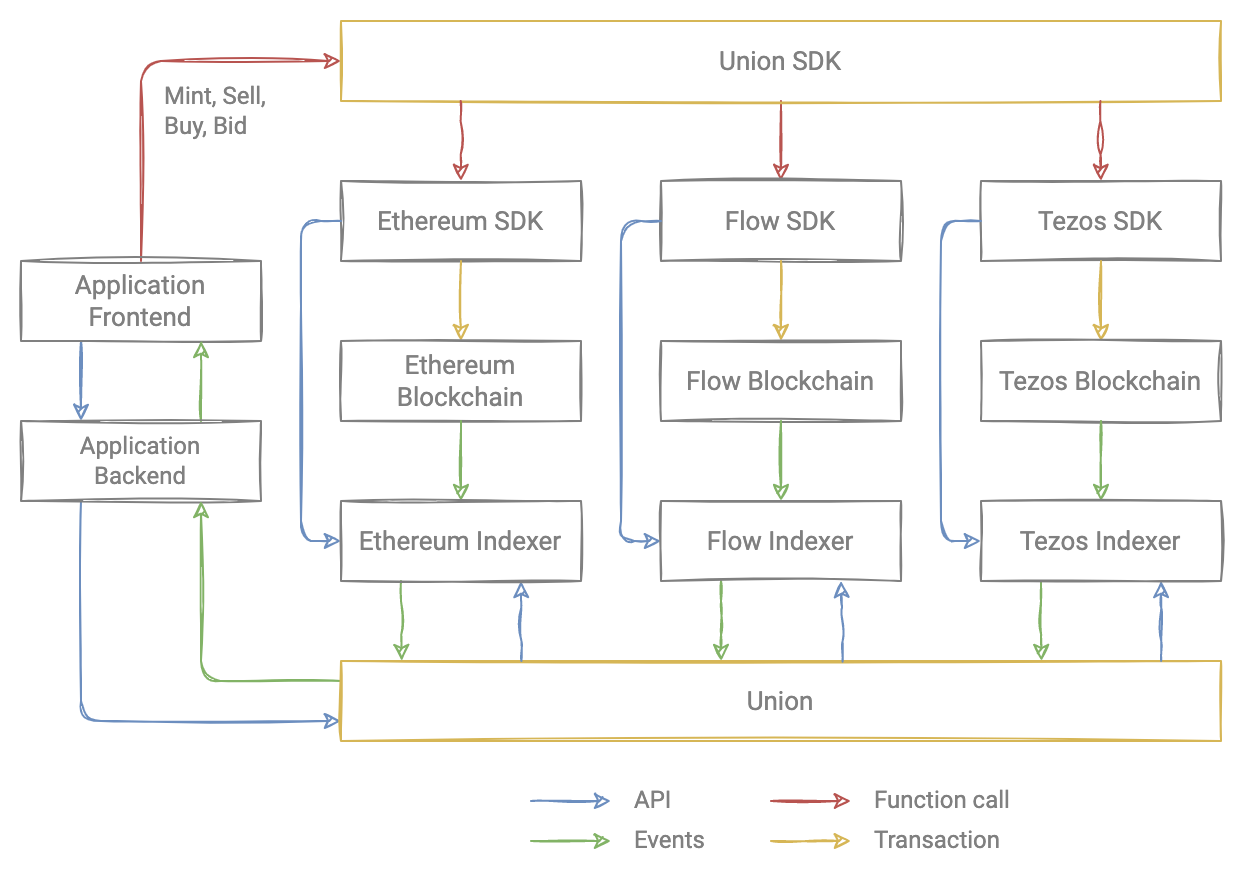
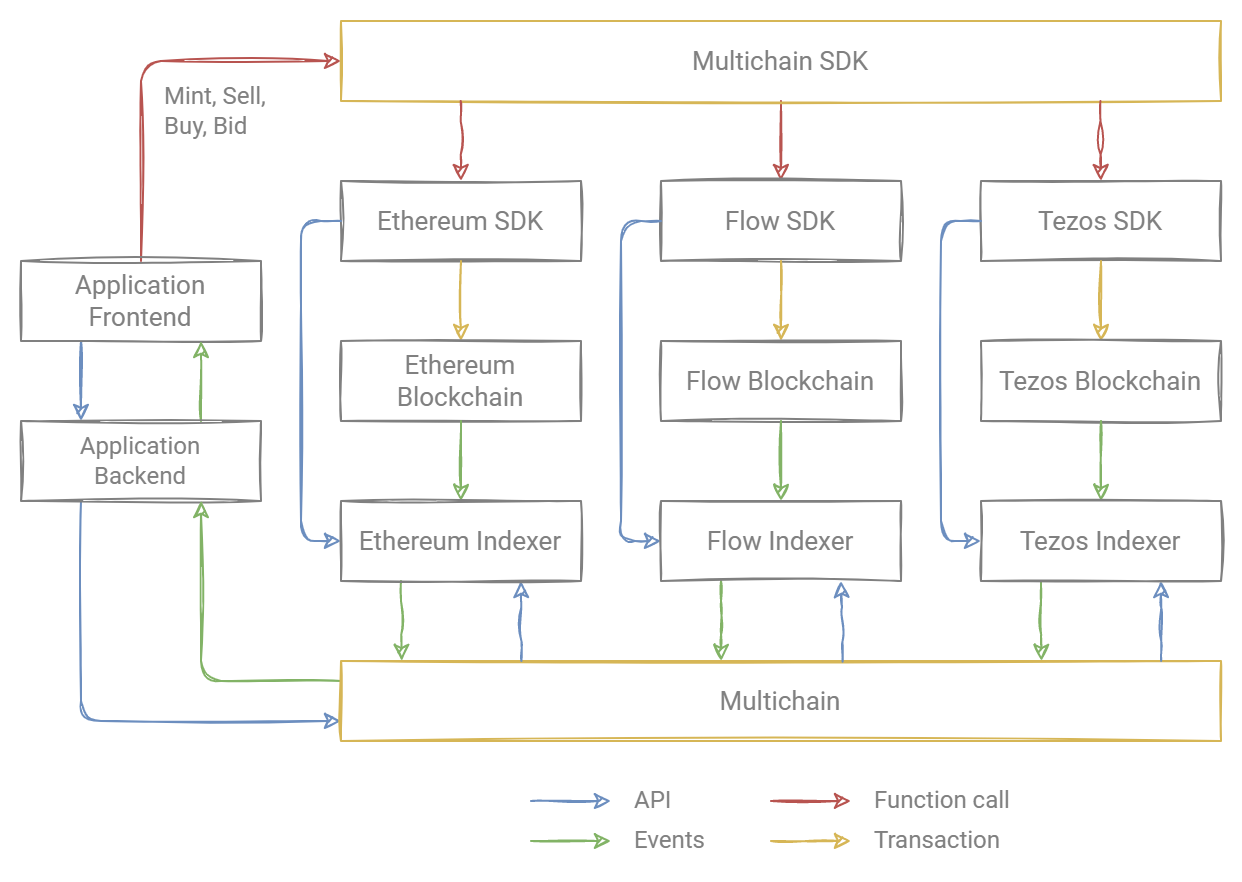
feat: rename union to multichain protocol

diff --git a/docs/union-sdk.md b/docs/union-sdk.md
@@ -1,16 +1,15 @@
 ---
-title: Rarible Protocol SDK
-description: Rarible Protocol SDK enables applications to interact with protocol easily: query, issue, trade NFTs on any blockchain supported
+title: Rarible Protocol Multichain SDK
+description: Rarible Protocol Multichain SDK enables applications to interact with protocol easily: query, issue, trade NFTs on any blockchain supported
 ---
 
 # Rarible Protocol SDK
 
-
 ## Overview
 
-Rarible creates Union SDK, an abstraction of complicated blockchain logic underneath, allowing end-users to interact with the blockchain to create some sorts of assets (ERC721, ERC1155) and list them to sell, trade, etc.
+Rarible creates Multichain SDK, an abstraction of complicated blockchain logic underneath, allowing end-users to interact with the blockchain to create some sorts of assets (ERC721, ERC1155) and list them to sell, trade, etc.
 
-In other words, Union SDK is ready to go, NFT marketplace functionality, which you can use out of the box.
+In other words, Multichain SDK is ready to go, NFT marketplace functionality, which you can use out of the box.
 
 Currently, Rarible Protocol SDK supports following blockchains:
 
@@ -164,79 +163,5 @@ Below you can find a list of steps that should be taken after the "Connect Metam
 Now we have the working example with Metamask connected and Rarible SDK configured.
 
 [Here](https://github.com/rarible/example/tree/master/src/sdk) you can find code used in example in broader picture.
-
-
-## List NFT on sell
-
-To list your NFT on sell, you'll need a token address, the one you get back from
-
-```typescript
-await mintResponse.submit();
-```
-
-If you want to create sell order immediately after lazy minting your token, you can grab it straight from the response. Otherwise you'll have to fetch it e.g. from API, or even paste it by hand using tokenId, which you can see in Rarible URL when you're on token you want to list.
-
-It's pretty straightforward. All we need is:
-
-- tokenUnionAddress: string e.g. ETHEREUM:0x6ede7f3c26975aad32a475e1021d8f6f39c89d82:55143609719300586327244080327388661151936544170854464635146779205246455382052
-- price: number - price in ETH for which we want to list the token (disclaimer: it's not in wei, it's in ETH, so 0.5 equals 0.5 ETH)
-- amount: number - quantity of NFT we want to list. In case of ERC721 it's 1
-- currency: EthEthereumAssetType - currency which we want to get in return for our token
-
-```typescript
-// 1. Examplary values
-const tokenUnionAddress: string =
-  "ETHEREUM:0x6ede7f3c26975aad32a475e1021d8f6f39c89d82:55143609719300586327244080327388661151936544170854464635146779205246455382052";
-const ethCurrency: EthEthereumAssetType = {
-  "@type": "ETH",
-};
-const price: number = 1;
-const amount: number = 1;
-
-// 2. Create PreapreOrderRequest type object and pass it to sdk.order.sell
-const orderRequest: PrepareOrderRequest = {
-  itemId: toItemId(tokenUnionAddress),
-};
-
-// You can extract info about properties from orderResponse e.g.
-// 1. Base fee
-// 2. Max Amount
-// etc.
-const orderResponse = await sdk.order.sell(orderRequest);
-
-// 3. Submit the transaction -> it will pop up the metamask asking you to sign a transaction, signing is free so there should not be any price associated
-const response = await orderResponse.submit({
-  price,
-  amount,
-  currency: ethCurrency,
-});
-// We get order id from response, it can be useful when we want to update sell order
-```
-
-## Update listed token price
-
-To update listed token price you need sell order id.
-
-Due to security circumstances you can't update token price to higher than the one created in original sell order. If you want to boost the price up, you need to cancel sell order and create a new one.
-
-```typescript
-const price: number = 0.8;
-const ethCurrency: EthEthereumAssetType = {
-  "@type": "ETH",
-};
-
-const orderId =
-  "ETHEREUM:0x6e794fd04bcf21ee7f347874aefdf36ec1a7b73b5694760b367a7644765a6368";
-
-const updateOrderRequest: PrepareOrderUpdateRequest = {
-  orderId: toOrderId(orderId),
-};
-
-const updateResponse = await sdk.order.sellUpdate(updateOrderRequest);
-
-const response = await updateResponse.submit({
-  price,
-});
-```
 
 See more information about usage Protocol SDK on [https://github.com/rarible/sdk](https://github.com/rarible/sdk)

diff --git a/docs/union-sdk/order.md b/docs/union-sdk/order.md
@@ -19,14 +19,14 @@ If you want to create a sell order immediately after lazy minting your token, yo
 
 It's pretty straightforward. All we need is:
 
-* `tokenUnionAddress:` — string in `BLOCKCHAIN:CONTRACT_ADDRESS:TOKEN_ID` format, see code for example
+* `tokenMultichainAddress:` — string in `BLOCKCHAIN:CONTRACT_ADDRESS:TOKEN_ID` format, see code for example
 * `price: number` — price in ETH for which we want to list the token (disclaimer: it's not in wei, it's in ETH, so 0.5 equals 0.5 ETH)
 * `amount: number` — quantity of NFT we want to list. In case of ERC721 it's 1
 * `currency` — type of currency: `FlowAssetTypeNft | TezosXTZAssetType | EthErc20AssetType` etc. you can find all supported currencies `@rarible/api-client/build/models/AssetType` in node modules
 
 ```typescript
 // 1. Examplary values
-const tokenUnionAddress: string =
+const tokenMultichainAddress: string =
   "ETHEREUM:0x6ede7f3c26975aad32a475e1021d8f6f39c89d82:55143609719300586327244080327388661151936544170854464635146779205246455382052";
 const ethCurrency: EthEthereumAssetType = {
   "@type": "ETH",
@@ -36,7 +36,7 @@ const amount: number = 1;
 
 // 2. Create PreapreOrderRequest type object and pass it to sdk.order.sell
 const orderRequest: PrepareOrderRequest = {
-  itemId: toItemId(tokenUnionAddress),
+  itemId: toItemId(tokenMultichainAddress),
 };
 
 // You can extract info about properties from orderResponse e.g.
@@ -109,7 +109,7 @@ In practice, it works in the same way. You can place your bid for any given NFT,
 
 You will need:
 
-* `tokenUnionAddress`
+* `tokenMultichainAddress`
 * `currency` — type of currency: `FlowAssetTypeNft | TezosXTZAssetType | EthErc20AssetType` etc. you can find all supported currencies `@rarible/api-client/build/models/AssetType` in node modules
 * `price`
 * `amount`
@@ -124,7 +124,7 @@ You will need:
     * Rinkeby / Ropsten: 0xc778417e063141139fce010982780140aa0cd5ab
 
 ```typescript
-const tokenUnionAddress =
+const tokenMultichainAddress =
   "ETHEREUM:0x6ede7f3c26975aad32a475e1021d8f6f39c89d82:55143609719300586327244080327388661151936544170854464635146779205246455382052";
 const currency: EthErc20AssetType = {
   "@type": "ERC20",
@@ -138,7 +138,7 @@ const price: number = 1;
 const amount: number = 1;
 
 const orderRequest: PrepareOrderRequest = {
-  itemId: toItemId(tokenUnionAddress),
+  itemId: toItemId(tokenMultichainAddress),
 };
 
 const bidResponse = await sdk.order.bid(orderRequest);

diff --git a/docs/union-sdk/nft.md b/docs/union-sdk/nft.md
@@ -19,7 +19,7 @@ To lazy mint an item following parameters are required:
 
 !!! note ""
 
-    Whenever you see the need for Union / Contract address, you can create it as follows:
+    Whenever you see the need for Multichain / Contract address, you can create it as follows:
 
     1. Blockchain Name
     2. Hex Address
@@ -114,7 +114,7 @@ const response = await mintResponse.submit({
   price,
   creators: [
     {
-      account: toUnionAddress(`ETHEREUM:${makerAccount}`),
+      account: toMultichianAddress(`ETHEREUM:${makerAccount}`),
       value: 10000,
     },
   ],
@@ -147,7 +147,7 @@ const transferRequest: PrepareTransferRequest = {
 const transferResponse = await sdk.nft.transfer(transferRequest);
 
 const response = await transferResponse.submit({
-  to: toUnionAddress("ETHEREUM:0x79Ea2d536b5b7144A3EabdC6A7E43130199291c0"),
+  to: toMultichianAddress("ETHEREUM:0x79Ea2d536b5b7144A3EabdC6A7E43130199291c0"),
 });
 ```
 
@@ -178,10 +178,10 @@ Because of lazy minting specification, Rarible generates token id to store it of
 
 ```typescript
 const genTokenIdReq: GenerateTokenIdRequest = {
-  collection: toUnionAddress(
+  collection: toMultichianAddress(
     "ETHEREUM:0x6ede7f3c26975aad32a475e1021d8f6f39c89d82"
   ),
-  minter: toUnionAddress("ETHEREUM:0x79Ea2d536b5b7144A3EabdC6A7E43130199291c0"),
+  minter: toMultichianAddress("ETHEREUM:0x79Ea2d536b5b7144A3EabdC6A7E43130199291c0"),
 };
 
 const tokenIdResponse = await sdk.nft.generateTokenId(genTokenIdReq);

diff --git a/docs/overview/union.md b/docs/overview/union.md
@@ -27,8 +27,6 @@ Applications need to integrate Multichain service and Multichain SDK to be able 
   <figcaption>Protocol architecture</figcaption>
 </figure>
 
-# TODO Modify picture to reflect the Multichain rename. 
-
 ## Features
 
 * [Mint](https://github.com/rarible/sdk#mint) (issue, create) NFTs
